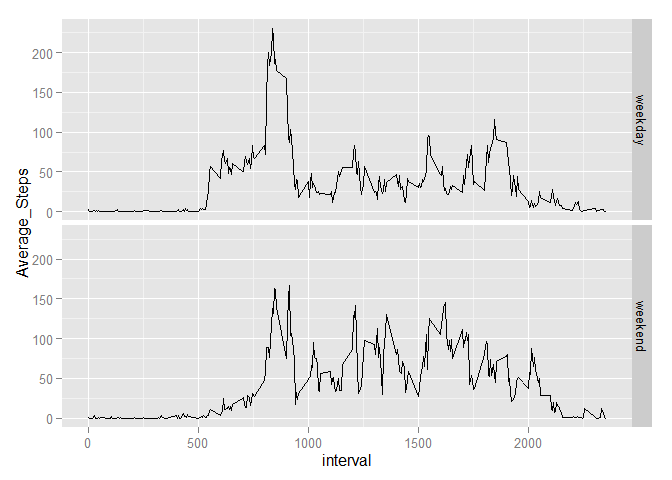
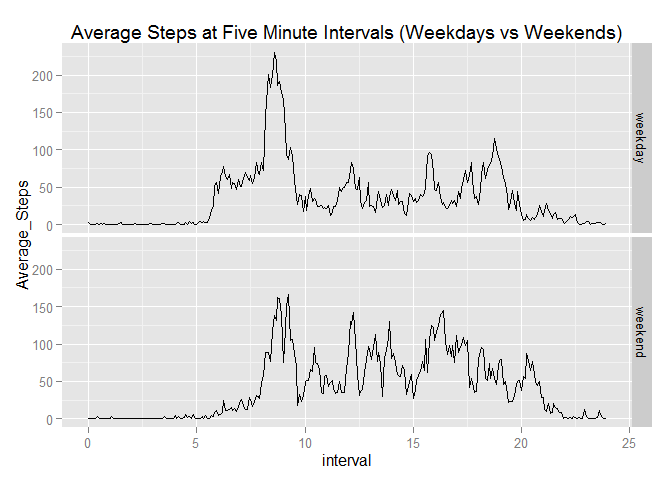
Revised Course Project Again

diff --git a/PA1_template.html b/PA1_template.html
@@ -69,11 +69,13 @@ img {
 
 <div id="loading-and-preprocessing-the-data" class="section level2">
 <h2>Loading And Preprocessing The Data</h2>
-<p>We will load the dataset activity.csv using the readr package from the forked repository after manually extracting from zip file. The date column will be imported as a character field and then converted to POSIXct format using the lubridate package. We will also convert the data into a data table using the data.table package.</p>
+<p>We will load the dataset activity.csv using the readr package from the forked repository after manually extracting from zip file. The date column will be imported as a character field and then converted to POSIXct format using the lubridate package. The We will also convert the data into a data table using the data.table package.</p>
 <pre class="r"><code>library(readr)
 data&lt;-read_csv(&quot;activity.csv&quot;,col_types=&quot;ici&quot;)
 library(lubridate)
 data$date&lt;-mdy(data$date)
+data$interval&lt;-formatC(data$interval,width=4,format=&quot;d&quot;,flag=&quot;0&quot;)
+data$interval&lt;-as.integer(substr(data$interval,1,2))+as.integer(substr(data$interval,3,4))/60
 library(data.table)</code></pre>
 <pre><code>## 
 ## Attaching package: 'data.table'
@@ -91,7 +93,7 @@ totsteps&lt;-data[!is.na(steps),.(Total_Steps=sum(steps)),by=(Day=as.character(d
 xt.totsteps&lt;-xtable(totsteps)
 print(xt.totsteps,type=&quot;html&quot;,include.rownames=FALSE)</code></pre>
 <!-- html table generated in R 3.1.3 by xtable 1.7-4 package -->
-<!-- Sun May 10 10:29:33 2015 -->
+<!-- Sun May 10 18:06:00 2015 -->
 <table border="1">
 <tr>
 <th>
@@ -535,7 +537,7 @@ setnames(totsteps.central,c(&quot;V1&quot;,&quot;V2&quot;),c(&quot;Mean&quot;,&q
 xt.totsteps.central&lt;-xtable(totsteps.central)
 print(xt.totsteps.central,type=&quot;html&quot;,include.rownames=FALSE)</code></pre>
 <!-- html table generated in R 3.1.3 by xtable 1.7-4 package -->
-<!-- Sun May 10 10:29:33 2015 -->
+<!-- Sun May 10 18:06:00 2015 -->
 <table border="1">
 <tr>
 <th>
@@ -559,10 +561,10 @@ Median
 <h2>What Is The Average Daily Activity Pattern?</h2>
 <p>We will use the data.table methods to calculate average steps per <span class="math">\(5\)</span> minute interval across all days and plot the result using the base package.</p>
 <pre class="r"><code>avgsteps&lt;-data[!is.na(steps),.(Average_Steps=mean(steps)),by=interval]
-plot(avgsteps$interval,avgsteps$Average_Steps,type=&quot;l&quot;,main=&quot;Average Steps per 5 Minute Interval&quot;,xlab=&quot;5 Minute Interval&quot;,ylab=&quot;Average Steps&quot;)</code></pre>
[1 lines of base64/hex data omitted]
+plot(avgsteps$interval,avgsteps$Average_Steps,type=&quot;l&quot;,main=&quot;Average Steps per 5 Minute Interval&quot;,xlab=&quot;24 Hours - 5 Minute Interval&quot;,ylab=&quot;Average Steps&quot;)</code></pre>
[1 lines of base64/hex data omitted]
 <pre class="r"><code>max.interval=avgsteps[order(-Average_Steps),][1,interval]</code></pre>
-<p>At least one <span class="math">\(5\)</span> minute interval with the maximum number of steps is 835.</p>
+<p>At least one <span class="math">\(5\)</span> minute interval with the maximum number of steps is 8.5833333.</p>
 </div>
 <div id="imputing-missing-values" class="section level2">
 <h2>Imputing Missing Values</h2>
@@ -583,7 +585,7 @@ setnames(imp.totsteps.central,c(&quot;V1&quot;,&quot;V2&quot;),c(&quot;Mean&quot
 xt.imp.totsteps.central&lt;-xtable(imp.totsteps.central)
 print(xt.imp.totsteps.central,type=&quot;html&quot;,include.rownames=FALSE)</code></pre>
 <!-- html table generated in R 3.1.3 by xtable 1.7-4 package -->
-<!-- Sun May 10 10:29:33 2015 -->
+<!-- Sun May 10 18:06:00 2015 -->
 <table border="1">
 <tr>
 <th>
@@ -608,7 +610,7 @@ imp.median&lt;-imp.totsteps.central$Median</code></pre>
 <pre class="r"><code>prior.mean&lt;-format(totsteps.central$Mean,scientific=FALSE)
 prior.median&lt;-format(totsteps.central$Median,scientific=FALSE)
 imp.median&lt;-format(imp.totsteps.central$Median,scientific=FALSE)</code></pre>
-<p>From the table we see that the mean has stayed the same at 10766, while the median has gone from 10765 to 10762. The impact on the calculation of total daily steps is that it has shifted the median of the data set down a very small amount. This makes sense since the mean was slightly less than the median and we imputed with the mean. If we had chosen to use the median to impute instead then the mean would have shifted up towards the median. I would consider this an insignificant impact at least on the central tendencies of the data.</p>
+<p>From the table we see that the mean has stayed the same at 10766, while the median has gone from 10765 to 10762. The impact on the calculation of total daily steps is that it has shifted the median of the data set down a very small amount. This makes sense since the mean was slightly more than the median and we imputed with the mean. If we had chosen to use the median to impute instead then the mean would have shifted down towards the median. I would consider this an insignificant impact at least on the central tendencies of the data.</p>
 </div>
 <div id="are-there-differences-in-activity-patterns-between-weekdays-and-weekends" class="section level2">
 <h2>Are There Differences In Activity Patterns Between Weekdays And Weekends?</h2>
@@ -622,9 +624,10 @@ imp.data$weekday&lt;-factor(imp.data$weekday)</code></pre>
 library(ggplot2)
 g&lt;-ggplot(wkday.avgsteps,aes(x=interval,y=Average_Steps))+
     geom_line()+
-    facet_grid(weekday~.)
+    facet_grid(weekday~.)+
+    ggtitle(&quot;Average Steps at Five Minute Intervals (Weekdays vs Weekends)&quot;)
 g</code></pre>
[2 lines of base64/hex data omitted]
 <p>So there does seem to be a difference between weekends and weekdays in that on weekends people walk less during the early morning and late afternoon than on weekends when people would be traveling to and from work. They also walk more throughout the day on weekends as opposed to weekdays when people would be more stationary sitting at their desks.</p>
 </div>
 

diff --git a/PA1_template.md b/PA1_template.md
@@ -4,7 +4,7 @@ Saturday, May 09, 2015
 
 ## Loading And Preprocessing The Data
 
-We will load the dataset activity.csv using the readr package from the forked repository after manually extracting from zip file.  The date column will be imported as a character field and then converted to POSIXct format using the lubridate package.  We will also convert the data into a data table using the data.table package.
+We will load the dataset activity.csv using the readr package from the forked repository after manually extracting from zip file.  The date column will be imported as a character field and then converted to POSIXct format using the lubridate package. The We will also convert the data into a data table using the data.table package.
 
 
 ```r
@@ -12,6 +12,8 @@ library(readr)
 data<-read_csv("activity.csv",col_types="ici")
 library(lubridate)
 data$date<-mdy(data$date)
+data$interval<-formatC(data$interval,width=4,format="d",flag="0")
+data$interval<-as.integer(substr(data$interval,1,2))+as.integer(substr(data$interval,3,4))/60
 library(data.table)
 ```
 
@@ -28,6 +30,8 @@ library(data.table)
 data<-data.table(data)
 ```
 
+
+
 ## What Is Mean Total Number Of Steps Taken Per Day?
 
 The number of steps per day will be calculated using the methods provided for a data.table object.  The output is stored in the table totsteps which is then transformed into an xtable object using package xtable.
@@ -41,7 +45,7 @@ print(xt.totsteps,type="html",include.rownames=FALSE)
 ```
 
 <!-- html table generated in R 3.1.3 by xtable 1.7-4 package -->
-<!-- Sun May 10 10:29:33 2015 -->
+<!-- Sun May 10 18:06:00 2015 -->
 <table border=1>
 <tr> <th> Day </th> <th> Total_Steps </th>  </tr>
   <tr> <td> 2012-10-02 </td> <td align="right"> 126 </td> </tr>
@@ -119,7 +123,7 @@ print(xt.totsteps.central,type="html",include.rownames=FALSE)
 ```
 
 <!-- html table generated in R 3.1.3 by xtable 1.7-4 package -->
-<!-- Sun May 10 10:29:33 2015 -->
+<!-- Sun May 10 18:06:00 2015 -->
 <table border=1>
 <tr> <th> Mean </th> <th> Median </th>  </tr>
   <tr> <td align="right"> 10766.00 </td> <td align="right"> 10765.00 </td> </tr>
@@ -132,7 +136,7 @@ We will use the data.table methods to calculate average steps per $5$ minute int
 
 ```r
 avgsteps<-data[!is.na(steps),.(Average_Steps=mean(steps)),by=interval]
-plot(avgsteps$interval,avgsteps$Average_Steps,type="l",main="Average Steps per 5 Minute Interval",xlab="5 Minute Interval",ylab="Average Steps")
+plot(avgsteps$interval,avgsteps$Average_Steps,type="l",main="Average Steps per 5 Minute Interval",xlab="24 Hours - 5 Minute Interval",ylab="Average Steps")
 ```
 
 ![](PA1_template_files/figure-html/unnamed-chunk-5-1.png) 
@@ -143,7 +147,7 @@ plot(avgsteps$interval,avgsteps$Average_Steps,type="l",main="Average Steps per 5
 max.interval=avgsteps[order(-Average_Steps),][1,interval]
 ```
 
-At least one $5$ minute interval with the maximum number of steps is 835.
+At least one $5$ minute interval with the maximum number of steps is 8.5833333.
 
 ## Imputing Missing Values
 
@@ -185,7 +189,7 @@ print(xt.imp.totsteps.central,type="html",include.rownames=FALSE)
 ```
 
 <!-- html table generated in R 3.1.3 by xtable 1.7-4 package -->
-<!-- Sun May 10 10:29:33 2015 -->
+<!-- Sun May 10 18:06:00 2015 -->
 <table border=1>
 <tr> <th> Mean </th> <th> Median </th>  </tr>
   <tr> <td align="right"> 10766.00 </td> <td align="right"> 10762.00 </td> </tr>
@@ -204,7 +208,7 @@ prior.median<-format(totsteps.central$Median,scientific=FALSE)
 imp.median<-format(imp.totsteps.central$Median,scientific=FALSE)
 ```
 
-From the table we see that the mean has stayed the same at 10766, while the median has gone from 10765 to 10762.  The impact on the calculation of total daily steps is that it has shifted the median of the data set down a very small amount.  This makes sense since the mean was slightly less than the median and we imputed with the mean.  If we had chosen to use the median to impute instead then the mean would have shifted up towards the median.  I would consider this an insignificant impact at least on the central tendencies of the data.
+From the table we see that the mean has stayed the same at 10766, while the median has gone from 10765 to 10762.  The impact on the calculation of total daily steps is that it has shifted the median of the data set down a very small amount.  This makes sense since the mean was slightly more than the median and we imputed with the mean.  If we had chosen to use the median to impute instead then the mean would have shifted down towards the median.  I would consider this an insignificant impact at least on the central tendencies of the data.
 
 ## Are There Differences In Activity Patterns Between Weekdays And Weekends?
 
@@ -225,7 +229,8 @@ wkday.avgsteps<-imp.data[,.(Average_Steps=mean(steps)),by=c("interval","weekday"
 library(ggplot2)
 g<-ggplot(wkday.avgsteps,aes(x=interval,y=Average_Steps))+
     geom_line()+
-    facet_grid(weekday~.)
+    facet_grid(weekday~.)+
+    ggtitle("Average Steps at Five Minute Intervals (Weekdays vs Weekends)")
 g
 ```
 
